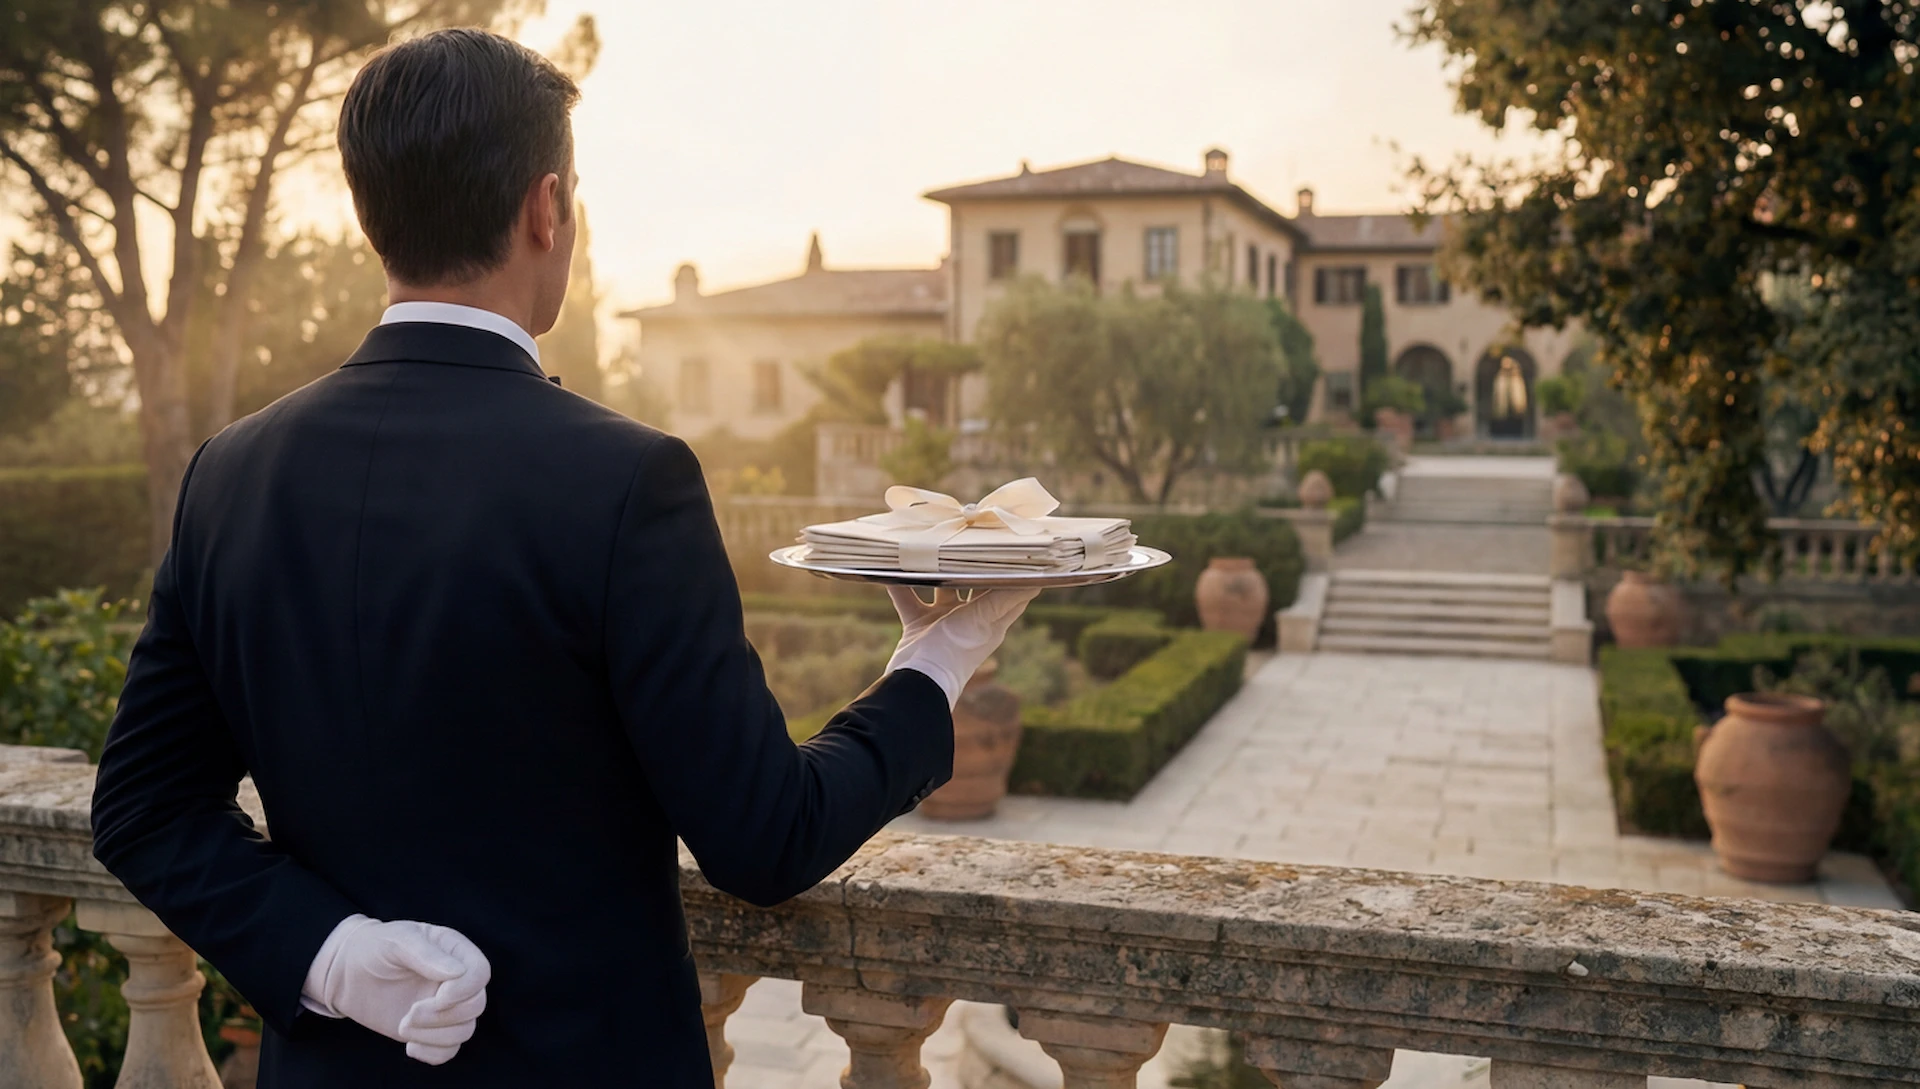
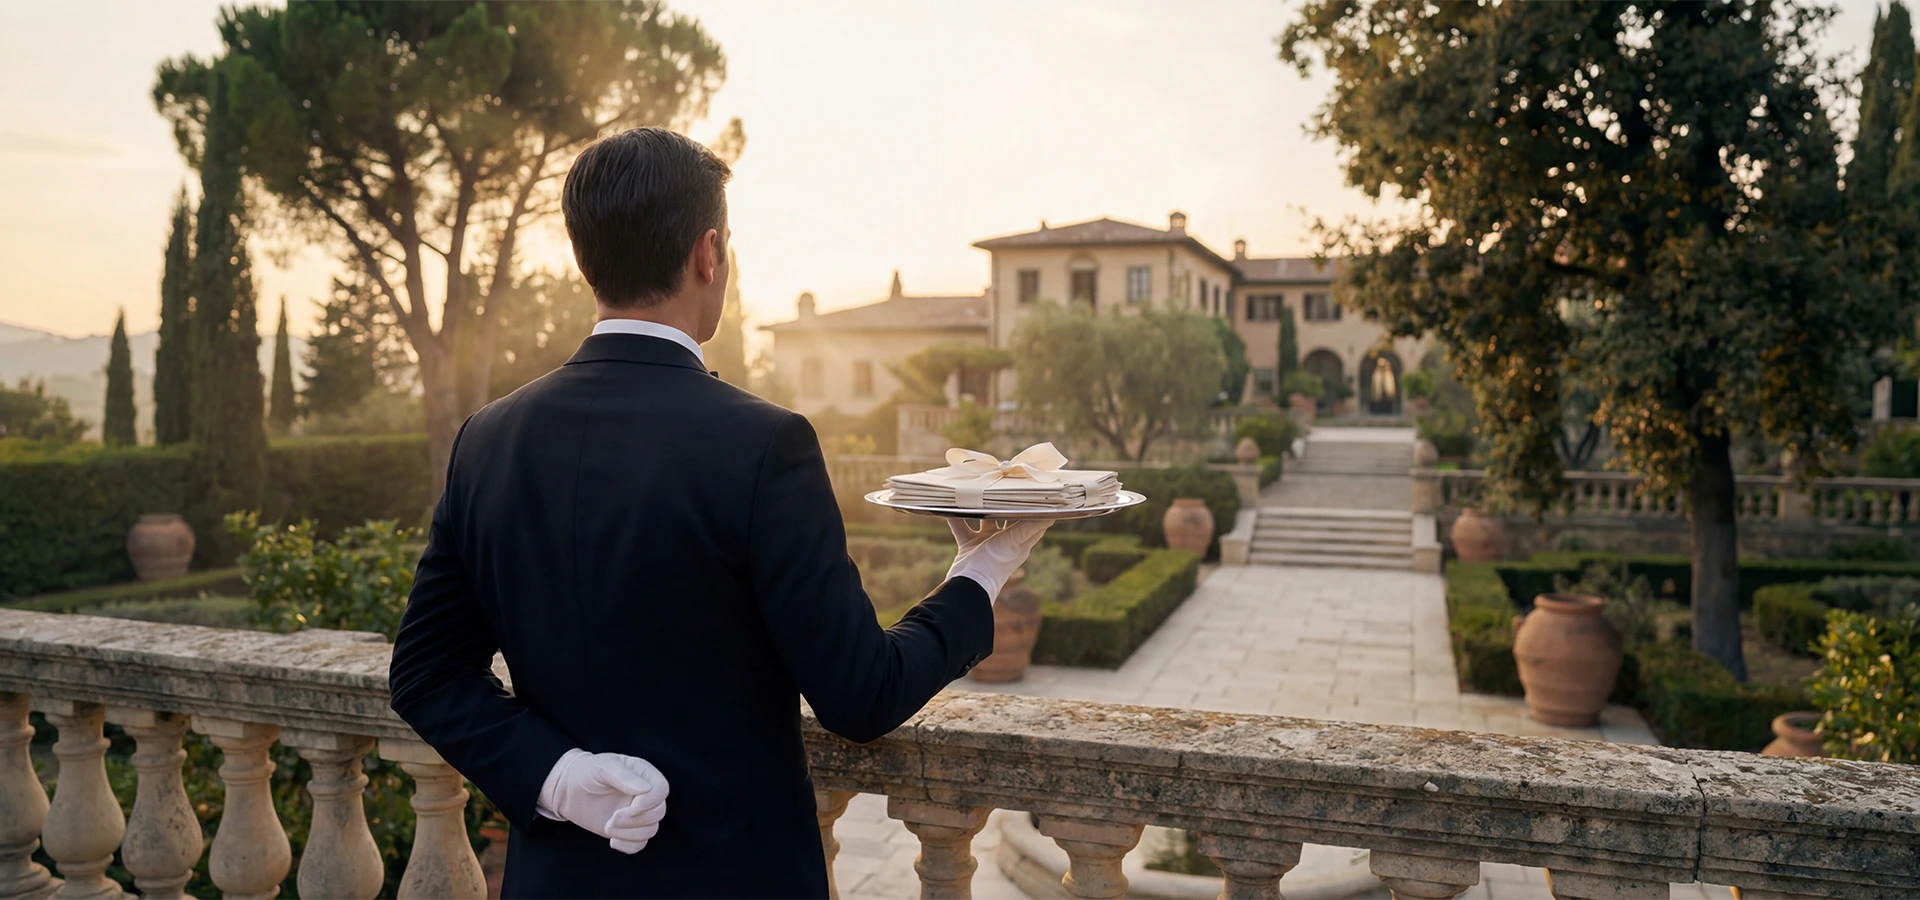
Add CalculatorFull

diff --git a/client/src/pages/CalculatorPage.css b/client/src/pages/CalculatorPage.css
@@ -1,40 +1,37 @@
-/* .calculator-page {
-  min-height: 100vh;
-  background-image: url('@/assets/images/calculator/calculator-bg.webp');
-  background-size: cover;
+/* Фиксированный фон — не зависит от скролла */
+.calculator-bg {
+  position: fixed;
+  top: 0;
+  left: 0;
+  right: 0;
+  bottom: 0;
+  background-image: url('@/assets/images/calculator/calculator-bg1920.webp');
   background-position: center;
+  background-size: cover;
   background-repeat: no-repeat;
-  background-attachment: fixed; 
-  
-  padding: 3rem 2rem;
-  position: relative;
+  z-index: 0;
 }
 
-
-.calculator-page::before {
+.calculator-bg::after {
   content: "";
   position: absolute;
   top: 0;
   left: 0;
   right: 0;
   bottom: 0;
-  background: rgba(243, 239, 230, 0.85); 
-  z-index: 0;
 }
 
-
-.calculator-page > * {
+.calculatorFull {
   position: relative;
   z-index: 1;
+  min-height: 100vh;
+  width: 100%;
+  display: flex;
+  justify-content: center;
+  align-items: center;
 }
 
-@media (max-width: 768px) {
-  .calculator-page {
-    padding: 2rem 1rem;
-    background-attachment: scroll; 
-  }
-  
-  .calculator-page::before {
-    background: rgba(243, 239, 230, 0.9); 
-  }
-} */
+/* Убираем старый ::before у .calculatorFull */
+.calculatorFull::before {
+  display: none;
+}

diff --git a/client/src/pages/Calculator/CalculatorFull.css b/client/src/pages/Calculator/CalculatorFull.css
@@ -1,29 +1,11 @@
 .calculatorFull {
-  min-height: 100vh;
-  width: 100%;
-  padding: clamp(1rem, 4vw, 3rem) 2.5rem;
   display: flex;
   justify-content: center;
   align-items: center;
   
-  background-image: url('@/assets/images/calculator/calculator-bg.webp');
-  background-size: cover;
-  background-position: center center;
-  background-repeat: no-repeat;
-  background-attachment: scroll;
+
 }
 
-/* Лёгкий overlay без fixed */
-.calculatorFull::before {
-  content: "";
-  position: absolute;
-  top: 0;
-  left: 0;
-  right: 0;
-  bottom: 0;
-  z-index: 0;
-  pointer-events: none;
-}
 
 .calculatorFull > * {
   position: relative;

diff --git a/client/src/pages/CalculatorPage.tsx b/client/src/pages/CalculatorPage.tsx
@@ -3,8 +3,11 @@ import './CalculatorPage.css'
 
 export const CalculatorPage = () => {
   return (
-    <main className="calculator-page">
-      <CalculatorFull />
-    </main>
+    <>
+      <div className="calculator-bg" /> {/* Фиксированный фон */}
+      <main className="calculatorFull">
+        <CalculatorFull />
+      </main>
+    </>
   );
 };

diff --git a/client/src/pages/Home/sections/Hero/components/Slider.tsx b/client/src/pages/Home/sections/Hero/components/Slider.tsx
@@ -1,7 +1,7 @@
 import { useState } from "react";
 import "./Slider.css";
 
-import hero1 from "@/assets/images/hero/hero-1.webp";
+import hero1 from "@/assets/images/hero/hero-1-1920.webp";
 import hero2 from "@/assets/images/hero/hero-2.webp";
 import hero3 from "@/assets/images/hero/hero-3.webp";
 
